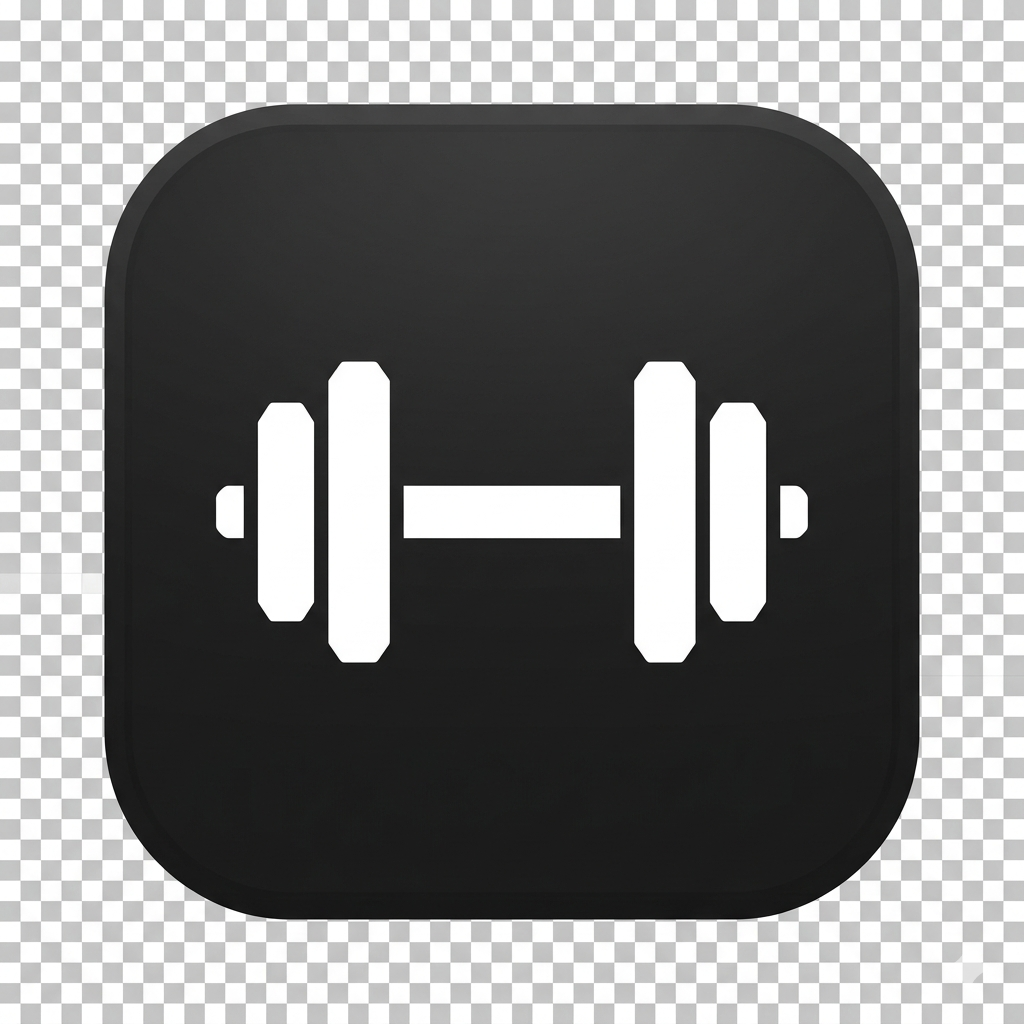
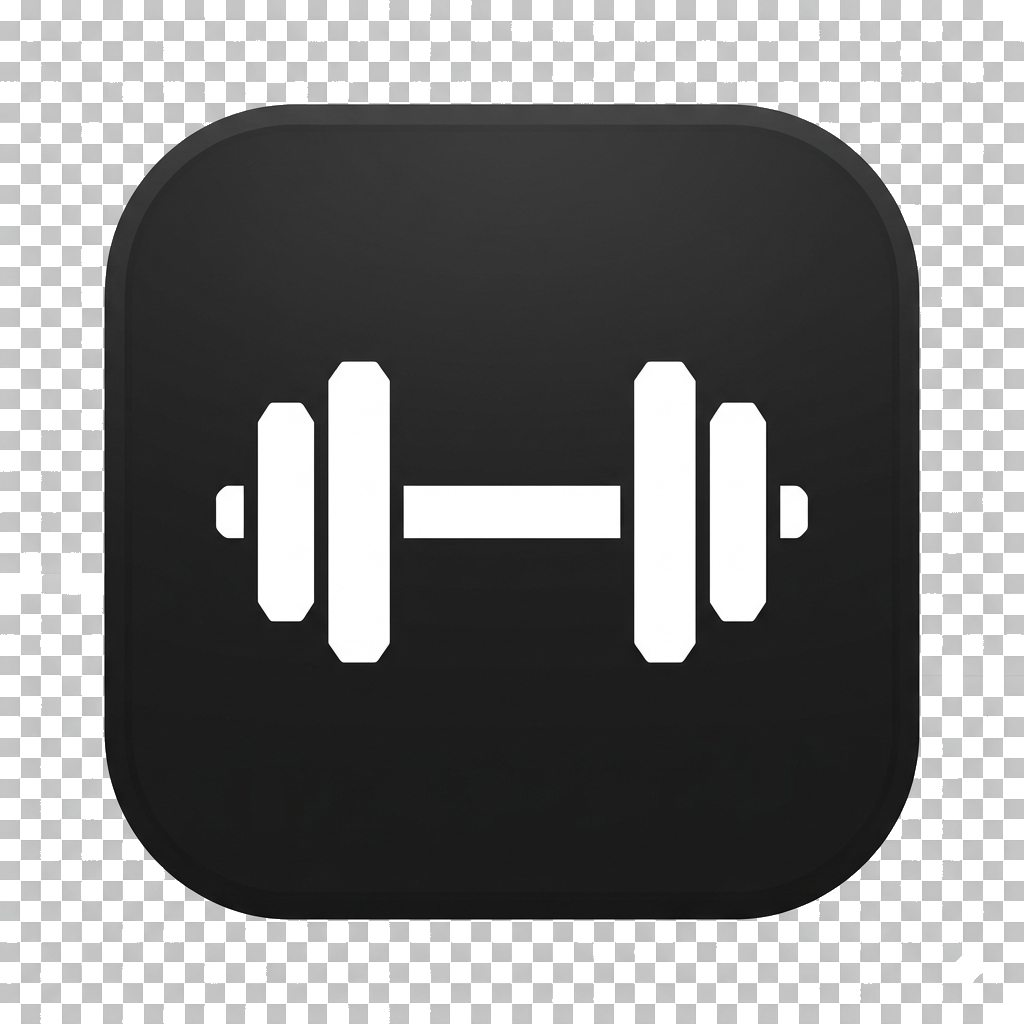
fix: eliminar fondo blanco del icono y generar tamaños correctos — 180 (apple), 192 y 512 (PWA)

diff --git a/index.html b/index.html
@@ -8,8 +8,8 @@
   <meta name="apple-mobile-web-app-status-bar-style" content="black-translucent">
   <meta name="description" content="Gym Companion — Seguimiento de entrenamiento personal">
   <title>Gym Companion</title>
-  <link rel="icon" type="image/png" href="icon.png">
-  <link rel="apple-touch-icon" href="icon.png">
+  <link rel="icon" type="image/png" sizes="192x192" href="icon-192.png">
+  <link rel="apple-touch-icon" sizes="180x180" href="icon-180.png">
   <link rel="manifest" href="manifest.json">
   <link rel="preconnect" href="https://fonts.googleapis.com">
   <link rel="preconnect" href="https://fonts.gstatic.com" crossorigin>
